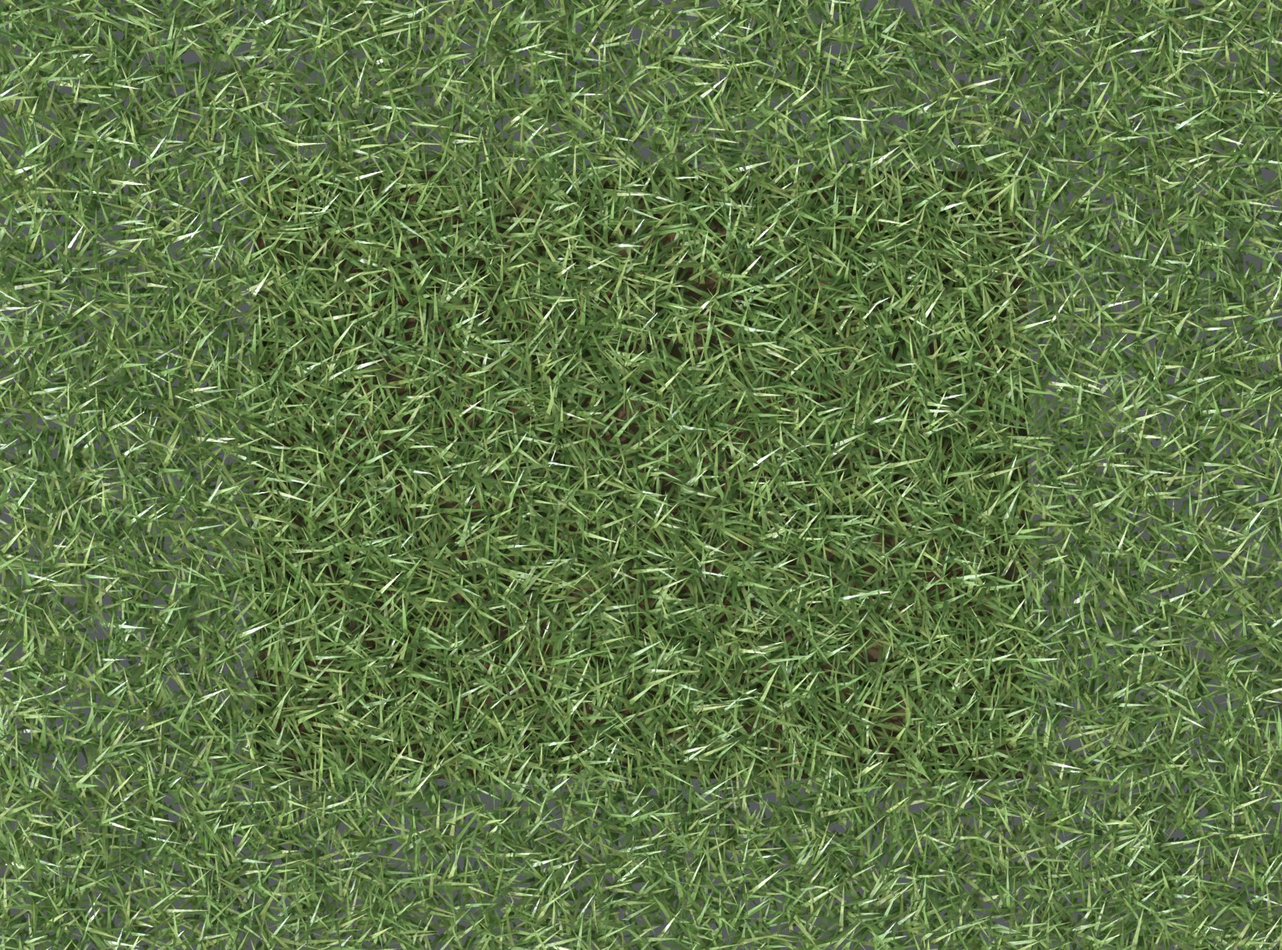
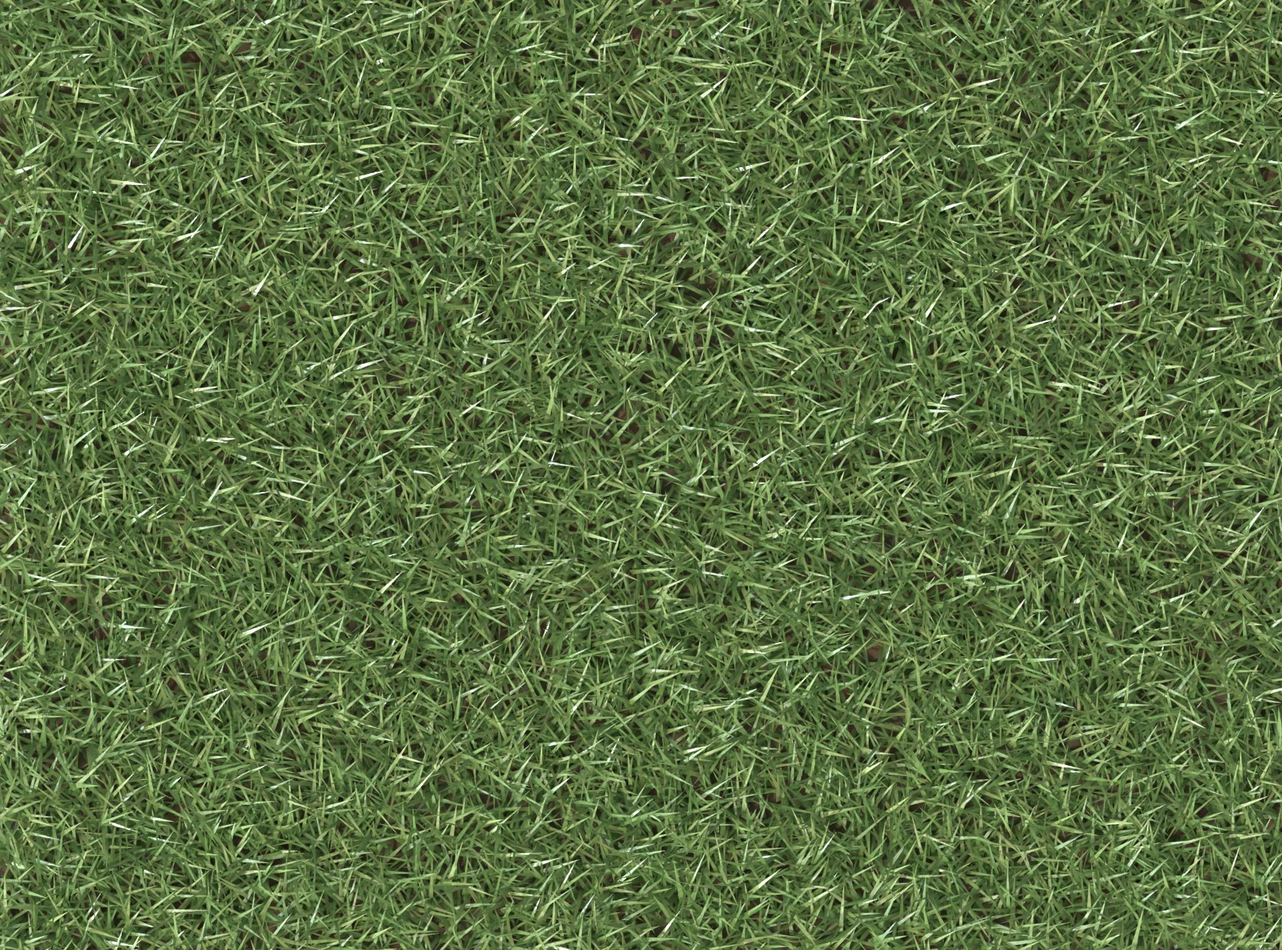
Complete flower renders; faster, lighter photoreal loading
- All 144 flower atlases (six species, three shape variants, eight colours,
  bud to bloom to rot), flowers from above, grass tufts, fly and drop sprites,
  and the meadow lawn re-rendered with full soil coverage.
- Atlases decode in one pass (bilinear scale to 70%, mask, premultiply) on two
  background threads, up to 36 kept in memory; a bouquet's flowers start
  decoding as soon as its chord is played.

Claude-Session: https://claude.ai/code/session_013EWPGCxnMmmy2twoobgAtH

diff --git a/Bouquet/Source/ui/RealFlowers.cpp b/Bouquet/Source/ui/RealFlowers.cpp
@@ -14,7 +14,7 @@ namespace
     };
     constexpr int numColours = 8;
     constexpr int atlasColumns = 6;
-    constexpr size_t maxAtlases = 14;     // ~12 MB each decoded
+    constexpr size_t maxAtlases = 36;     // ~6 MB each decoded
     constexpr int blendSteps = 6;
 
     juce::Point<float> pointFrom (const juce::var& v)
@@ -62,7 +62,10 @@ public:
 
     JobStatus runJob() override
     {
-        auto image = FlowerSprites::loadWithAlpha (colour, alpha);
+        // Scaled while decoding, to a whole grid of equally sized frames.
+        const int rows = owner.frameRows;
+        auto image = FlowerSprites::loadWithAlpha (colour, alpha, FlowerSprites::scaled (owner.frameWidth) * atlasColumns,
+                                                   FlowerSprites::scaled (owner.frameHeight) * rows);
         const std::lock_guard<std::mutex> l (owner.lock);
         owner.requested.erase (key);
         if (image.isValid())
@@ -116,6 +119,9 @@ FlowerSprites::FlowerSprites() : folder (assets::find ("Flowers", "daisy0.json")
                     info.stems.push_back (std::move (stem));
                     info.heads.push_back (pointFrom (f["head"]));
                 }
+            frameWidth = info.width;
+            frameHeight = info.height;
+            frameRows = ((int) info.stems.size() + atlasColumns - 1) / atlasColumns;
             if (info.width > 0 && ! info.stems.empty())
                 infos[infoKey ((botany::Species) s, v)] = std::move (info);
         }
@@ -128,7 +134,7 @@ FlowerSprites::FlowerSprites() : folder (assets::find ("Flowers", "daisy0.json")
     extrasSheet = juce::ImageFileFormat::loadFrom (folder.getChildFile ("extras.png"));
     extrasSize = (int) juce::JSON::parse (folder.getChildFile ("extras.json")).getProperty ("size", 64);
 
-    pool = std::make_unique<juce::ThreadPool> (juce::ThreadPoolOptions().withThreadName ("Bouquet flowers").withNumberOfThreads (1));
+    pool = std::make_unique<juce::ThreadPool> (juce::ThreadPoolOptions().withThreadName ("Bouquet flowers").withNumberOfThreads (2));
 }
 
 FlowerSprites::~FlowerSprites()
@@ -137,25 +143,53 @@ FlowerSprites::~FlowerSprites()
         pool->removeAllJobs (true, 4000);
 }
 
-juce::Image FlowerSprites::loadWithAlpha (const juce::File& colourFile, const juce::File& alphaFile)
+juce::Image FlowerSprites::loadWithAlpha (const juce::File& colourFile, const juce::File& alphaFile, int width, int height)
 {
-    const auto colour = juce::ImageFileFormat::loadFrom (colourFile);
-    const auto alpha = juce::ImageFileFormat::loadFrom (alphaFile);
+    // Both decoded to ARGB so their bytes can be read directly (blue, green, red, alpha).
+    const auto colour = juce::ImageFileFormat::loadFrom (colourFile).convertedToFormat (juce::Image::ARGB);
+    auto alpha = juce::ImageFileFormat::loadFrom (alphaFile);
     if (! colour.isValid() || ! alpha.isValid() || colour.getBounds() != alpha.getBounds())
         return {};
+    const bool alphaInAlpha = alpha.getFormat() == juce::Image::SingleChannel;
+    alpha = alpha.convertedToFormat (juce::Image::ARGB);
 
-    juce::Image out (juce::Image::ARGB, colour.getWidth(), colour.getHeight(), false, juce::SoftwareImageType());
+    const int sw = colour.getWidth(), sh = colour.getHeight();
+    if (width <= 0 || height <= 0) { width = sw; height = sh; }
+
+    juce::Image out (juce::Image::ARGB, width, height, false, juce::SoftwareImageType());
     const juce::Image::BitmapData dc (colour, juce::Image::BitmapData::readOnly);
     const juce::Image::BitmapData da (alpha, juce::Image::BitmapData::readOnly);
     juce::Image::BitmapData dout (out, juce::Image::BitmapData::writeOnly);
-    for (int y = 0; y < out.getHeight(); ++y)
+    const int alphaByte = alphaInAlpha ? 3 : 2;   // a greyscale mask arrives as grey RGB
+    const float fx = (float) sw / (float) width, fy = (float) sh / (float) height;
+
+    // One pass: scale (bilinear, centre-aligned), attach the mask, premultiply.
+    for (int y = 0; y < height; ++y)
     {
-        for (int x = 0; x < out.getWidth(); ++x)
+        const float sy = juce::jlimit (0.0f, (float) (sh - 1), ((float) y + 0.5f) * fy - 0.5f);
+        const int y0 = (int) sy, y1 = std::min (y0 + 1, sh - 1);
+        const float ty = sy - (float) y0;
+        const juce::uint8* c0 = dc.getLinePointer (y0);
+        const juce::uint8* c1 = dc.getLinePointer (y1);
+        const juce::uint8* a0 = da.getLinePointer (y0);
+        const juce::uint8* a1 = da.getLinePointer (y1);
+        juce::uint8* o = dout.getLinePointer (y);
+        for (int x = 0; x < width; ++x)
         {
-            const auto c = dc.getPixelColour (x, y);
-            const auto a = da.getPixelColour (x, y);
-            const auto alphaByte = alpha.getFormat() == juce::Image::SingleChannel ? a.getAlpha() : a.getRed();
-            dout.setPixelColour (x, y, c.withAlpha (alphaByte));
+            const float sx = juce::jlimit (0.0f, (float) (sw - 1), ((float) x + 0.5f) * fx - 0.5f);
+            const int x0 = (int) sx, x1 = std::min (x0 + 1, sw - 1);
+            const float tx = sx - (float) x0;
+            auto lerp = [&] (const juce::uint8* r0, const juce::uint8* r1, int stride, int channel)
+            {
+                const float top = r0[x0 * stride + channel] + (r0[x1 * stride + channel] - r0[x0 * stride + channel]) * tx;
+                const float bottom = r1[x0 * stride + channel] + (r1[x1 * stride + channel] - r1[x0 * stride + channel]) * tx;
+                return top + (bottom - top) * ty;
+            };
+            const float a = lerp (a0, a1, da.pixelStride, alphaByte) / 255.0f;
+            auto* px = o + x * dout.pixelStride;
+            for (int ch = 0; ch < 3; ++ch)
+                px[ch] = (juce::uint8) juce::jlimit (0, 255, juce::roundToInt (lerp (c0, c1, dc.pixelStride, ch) * a));
+            px[3] = (juce::uint8) juce::roundToInt (a * 255.0f);
         }
     }
     return out;
@@ -216,7 +250,8 @@ juce::Image FlowerSprites::atlas (int key, const juce::String& baseName, bool wa
 
 juce::Image FlowerSprites::frameImage (int, const Info& info, const juce::Image& sheet, int frame) const
 {
-    return sheet.getClippedImage ({ (frame % atlasColumns) * info.width, (frame / atlasColumns) * info.height, info.width, info.height });
+    const int w = scaled (info.width), h = scaled (info.height);
+    return sheet.getClippedImage ({ (frame % atlasColumns) * w, (frame / atlasColumns) * h, w, h });
 }
 
 FlowerSprites::Frame FlowerSprites::get (botany::Species s, int variant, int colour, float position)
@@ -246,6 +281,7 @@ FlowerSprites::Frame FlowerSprites::get (botany::Species s, int variant, int col
     if (! sheet.isValid())
         return f;
 
+    f.imageScale = atlasScale;
     if (step == 0 || step >= blendSteps || a == b)
     {
         f.image = frameImage (key, info, sheet, nearest);
@@ -264,6 +300,14 @@ FlowerSprites::Frame FlowerSprites::get (botany::Species s, int variant, int col
     }
     f.image = blend.image;
     return f;
+}
+
+void FlowerSprites::prefetch (botany::Species s, int variant, int colour)
+{
+    variant = juce::jlimit (0, numVariants - 1, variant);
+    colour = juce::jlimit (0, numColours - 1, colour);
+    if (infos.count (infoKey (s, variant)) != 0)
+        atlas (atlasKey (s, variant, colour), juce::String (speciesNames[(int) s]) + juce::String (variant) + "_" + colourNames[colour], false);
 }
 
 juce::Image FlowerSprites::top (botany::Species s, int variant, int colour)
@@ -340,7 +384,8 @@ void paintFlower (juce::Graphics& g, FlowerSprites& sprites, botany::Species spe
     {
         const float visibleTop = frame.base.y - (frame.base.y + 4.0f) * grow;
         juce::Path reveal;
-        reveal.addRectangle (juce::Rectangle<float> (0.0f, visibleTop, (float) frame.image.getWidth(), (float) frame.image.getHeight() - visibleTop));
+        reveal.addRectangle (juce::Rectangle<float> (0.0f, visibleTop, (float) frame.image.getWidth() / frame.imageScale,
+                                                     (float) frame.image.getHeight() / frame.imageScale - visibleTop));
         reveal.applyTransform (t);
         g.reduceClipRegion (reveal);
     }
@@ -351,7 +396,7 @@ void paintFlower (juce::Graphics& g, FlowerSprites& sprites, botany::Species spe
 
     g.setOpacity (fade);
     g.setImageResamplingQuality (juce::Graphics::highResamplingQuality);
-    g.drawImageTransformed (frame.image, t);
+    g.drawImageTransformed (frame.image, juce::AffineTransform::scale (1.0f / frame.imageScale).followedBy (t));
     g.setOpacity (1.0f);
 
     if (rot <= 0.15f)

diff --git a/Bouquet/tests/BouquetTest.cpp b/Bouquet/tests/BouquetTest.cpp
@@ -152,6 +152,8 @@ static int snapshot (const juce::File& file, bool effect, int spell, int instrum
     }
     if (rotting)
         play (2.2f);
+    else
+        play (0.6f);   // the last bouquet opens fully
     if (mode == "meadow" || mode == "realmeadow")
     {
         if (auto* bouquetEditor = dynamic_cast<BouquetEditor*> (editor.get()))
@@ -273,6 +275,26 @@ int main (int argc, char** argv)
         g.setImageResamplingQuality (juce::Graphics::mediumResamplingQuality);
         g.drawImageTransformed (top, juce::AffineTransform::translation (-128.0f, -128.0f).rotated (0.7f).scaled (0.35f).translated (160.0f, 380.0f));
         g.drawImageTransformed (top, juce::AffineTransform::translation (-128.0f, -128.0f).scaled (0.35f).translated (260.0f, 380.0f));
+        {
+            const auto dir = bouquet::assets::find ("Flowers", "daisy0.json");
+            for (int i = 0; i < 3; ++i)
+            {
+                const auto t0 = juce::Time::getMillisecondCounterHiRes();
+                const auto c = juce::ImageFileFormat::loadFrom (dir.getChildFile ("rose1_pink.jpg"));
+                const auto t1 = juce::Time::getMillisecondCounterHiRes();
+                const auto a = juce::ImageFileFormat::loadFrom (dir.getChildFile ("rose1_pink.alpha.png"));
+                const auto t2 = juce::Time::getMillisecondCounterHiRes();
+                const auto img = bouquet::ui::real::FlowerSprites::loadWithAlpha (dir.getChildFile ("rose1_pink.jpg"), dir.getChildFile ("rose1_pink.alpha.png"), 1212, 1208);
+                const auto t3 = juce::Time::getMillisecondCounterHiRes();
+                std::cout << "jpeg " << (t1 - t0) << " ms, png " << (t2 - t1) << " ms, combined " << (t3 - t2) << " ms " << c.getFormat() << " " << a.getFormat() << "\n";
+            }
+        }
+        // Growing, blooming, rotting, through paintFlower.
+        const float blooms[] = { 0.0f, 0.3f, 0.6f, 1.0f, 1.0f, 1.0f };
+        const float rots[] = { 0.0f, 0.0f, 0.0f, 0.0f, 0.3f, 0.7f };
+        for (int i = 0; i < 6; ++i)
+            bouquet::ui::real::paintFlower (g, sprites, bouquet::ui::botany::Species::tulip, 1, 3, { 380.0f + (float) i * 120.0f, 440.0f },
+                                            120.0f, 0.0f, 1.0f, blooms[i], rots[i], 1.0f, 0.0f);
         juce::FileOutputStream out (juce::File::getCurrentWorkingDirectory().getChildFile (argv[2]));
         out.setPosition (0);
         out.truncate();

diff --git a/Bouquet/Source/ui/RealFlowers.h b/Bouquet/Source/ui/RealFlowers.h
@@ -39,11 +39,16 @@ public:
     struct Frame
     {
         juce::Image image;                           // invalid while still loading
+        float imageScale = 1.0f;                     // image pixels per sprite pixel
         juce::Point<float> base, head;               // in sprite pixels
         std::vector<juce::Point<float>> stem;        // ground up
     };
     // The frame at a fractional position, cross-faded between its two neighbours.
     Frame get (botany::Species, int variant, int colour, float position);
+
+    // Starts decoding a flower's frames in the background, so they are ready by the time
+    // it has grown (call when it is planted).
+    void prefetch (botany::Species, int variant, int colour);
 
     // The flower in full bloom seen from straight above (centred), or invalid.
     juce::Image top (botany::Species, int variant, int colour);
@@ -72,16 +77,26 @@ private:
         juce::uint32 lastUsed = 0;
     };
     class Loader;
+    // Atlases are kept at this fraction of their rendered size: sharp at the garden's
+    // sizes on a Retina screen, and light enough to keep a whole garden in memory.
+    static constexpr float atlasScale = 0.7f;
+    static int scaled (int px) { return juce::roundToInt ((float) px * atlasScale); }
 
     static int infoKey (botany::Species s, int variant) { return (int) s * 4 + variant; }
     static int atlasKey (botany::Species s, int variant, int colour) { return infoKey (s, variant) * 16 + colour; }
     juce::Image atlas (int key, const juce::String& baseName, bool wait);
     juce::Image frameImage (int key, const Info&, const juce::Image& sheet, int frame) const;
-    static juce::Image loadWithAlpha (const juce::File& colour, const juce::File& alpha);
+public:
+    // Decodes a colour JPEG and its alpha mask into one premultiplied image, scaled to
+    // width x height on the way (0 keeps the file's size).
+    static juce::Image loadWithAlpha (const juce::File& colour, const juce::File& alpha, int width = 0, int height = 0);
+
+private:
 
     juce::File folder;
     std::map<int, Info> infos;
     int bloomCount = 10, rotCount = 14;
+    int frameWidth = 0, frameHeight = 0, frameRows = 4;
 
     std::mutex lock;                                  // guards atlases, requested
     std::map<int, Atlas> atlases;

diff --git a/Bouquet/Source/ui/Garden.cpp b/Bouquet/Source/ui/Garden.cpp
@@ -337,6 +337,8 @@ void Garden::arrange (Bunch& b)
                                    c.getBrightness() * (0.95f + 0.05f * r.nextFloat()), 1.0f);
         const auto species = r.nextFloat() < 0.6f ? dominant : (Species) r.nextInt ((int) Species::count);
         f.genome = makeGenome (species, c, 10.5f + 6.0f * b.velocity + 3.5f * r.nextFloat(), b.seed + (uint32_t) i * 7919u);
+        if (processor.photorealFlowers())
+            sprites->prefetch (species, (int) (f.genome.seed % real::FlowerSprites::numVariants), real::FlowerSprites::nearestColour (c));
         b.flowers.push_back (std::move (f));
     }
 }
